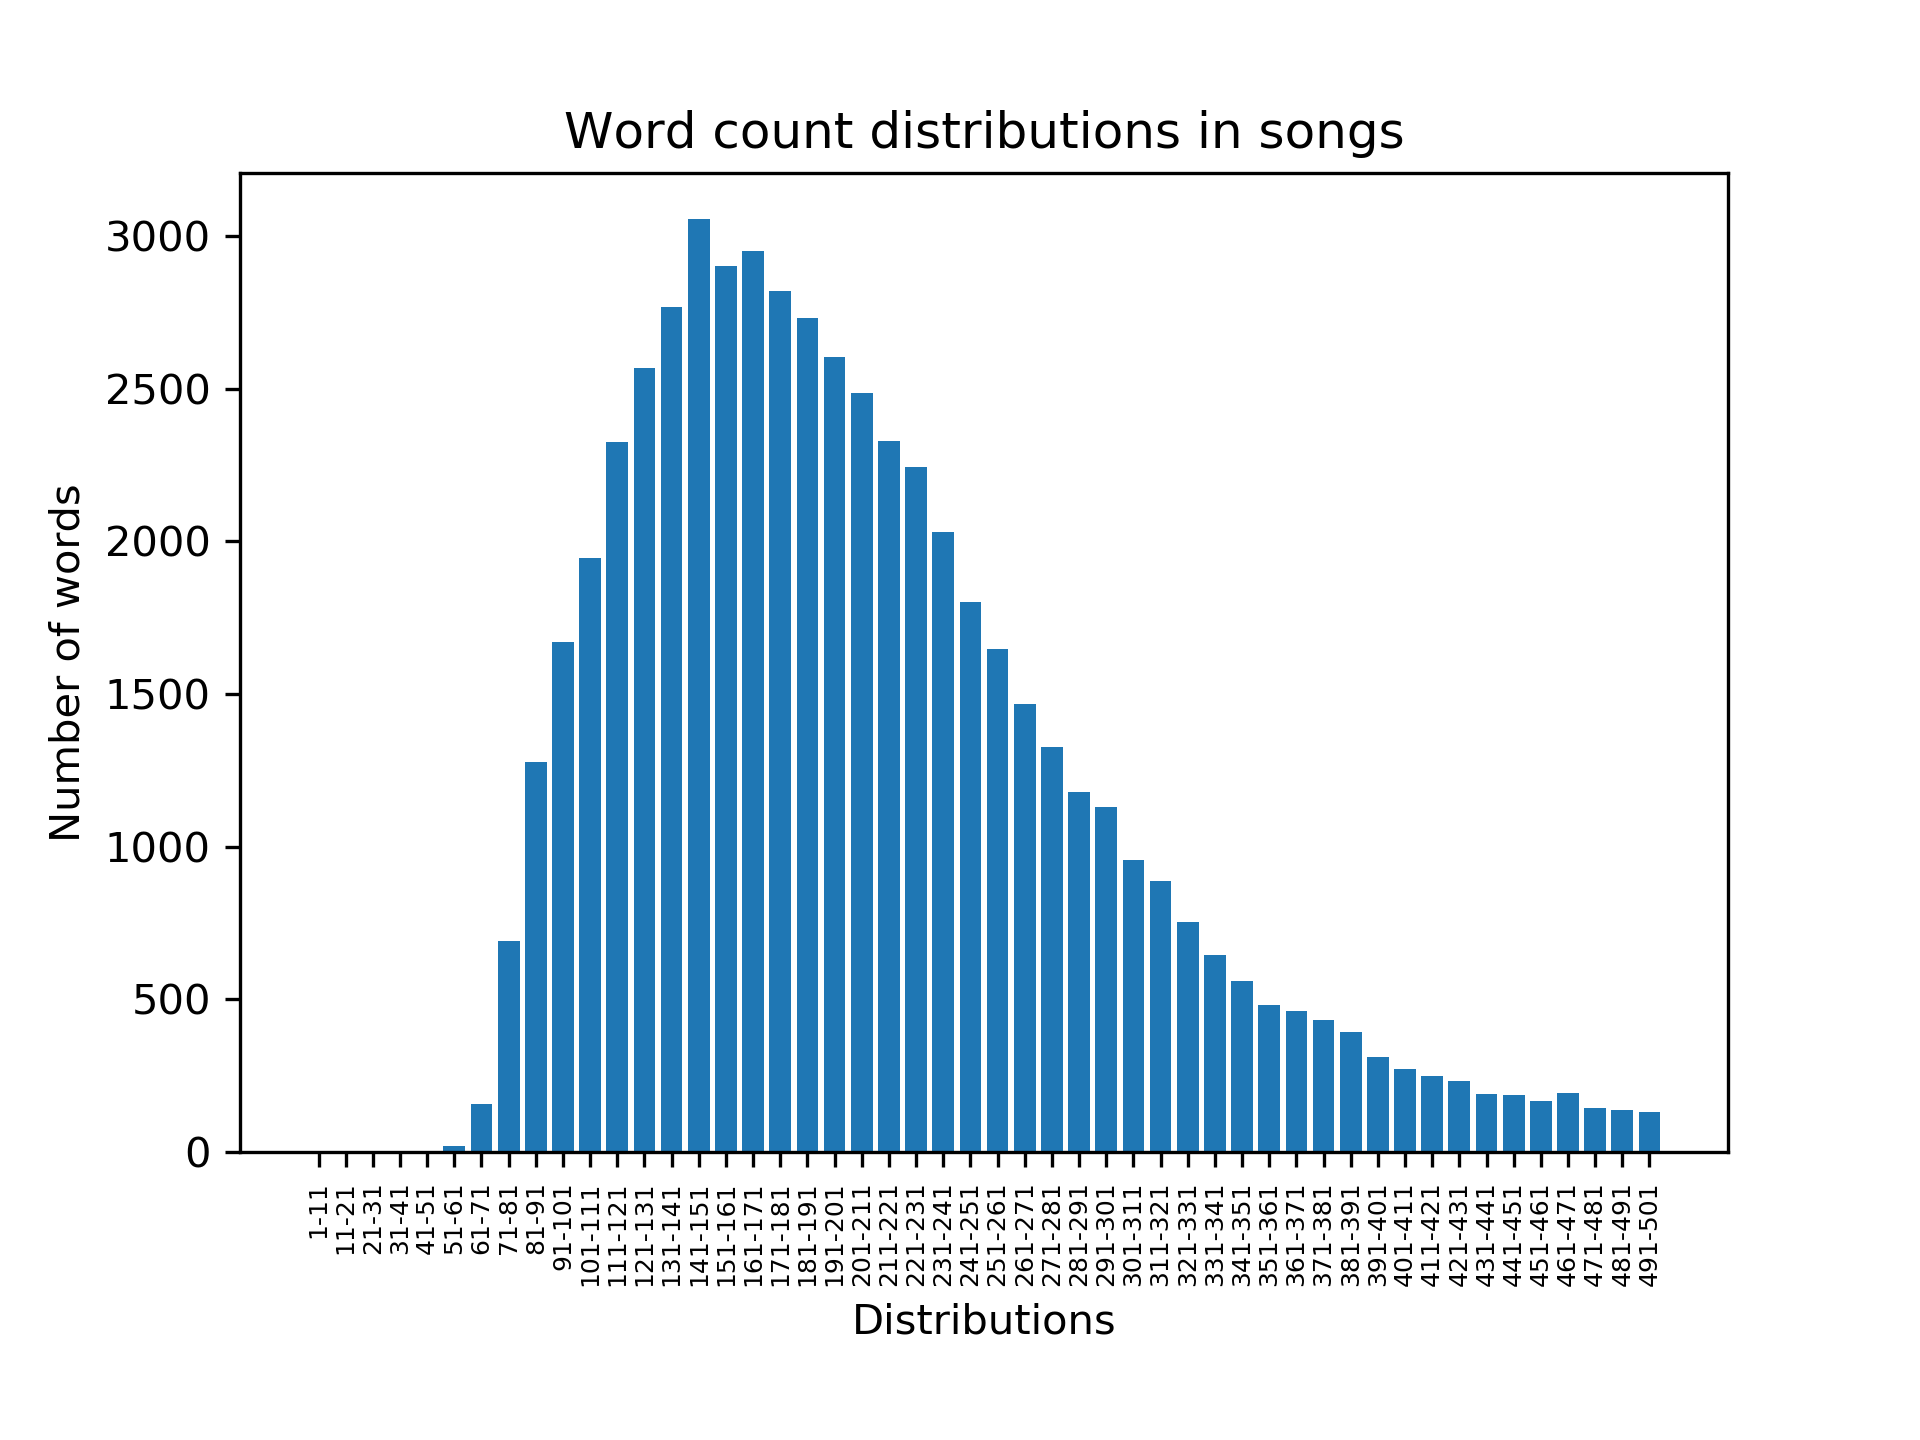
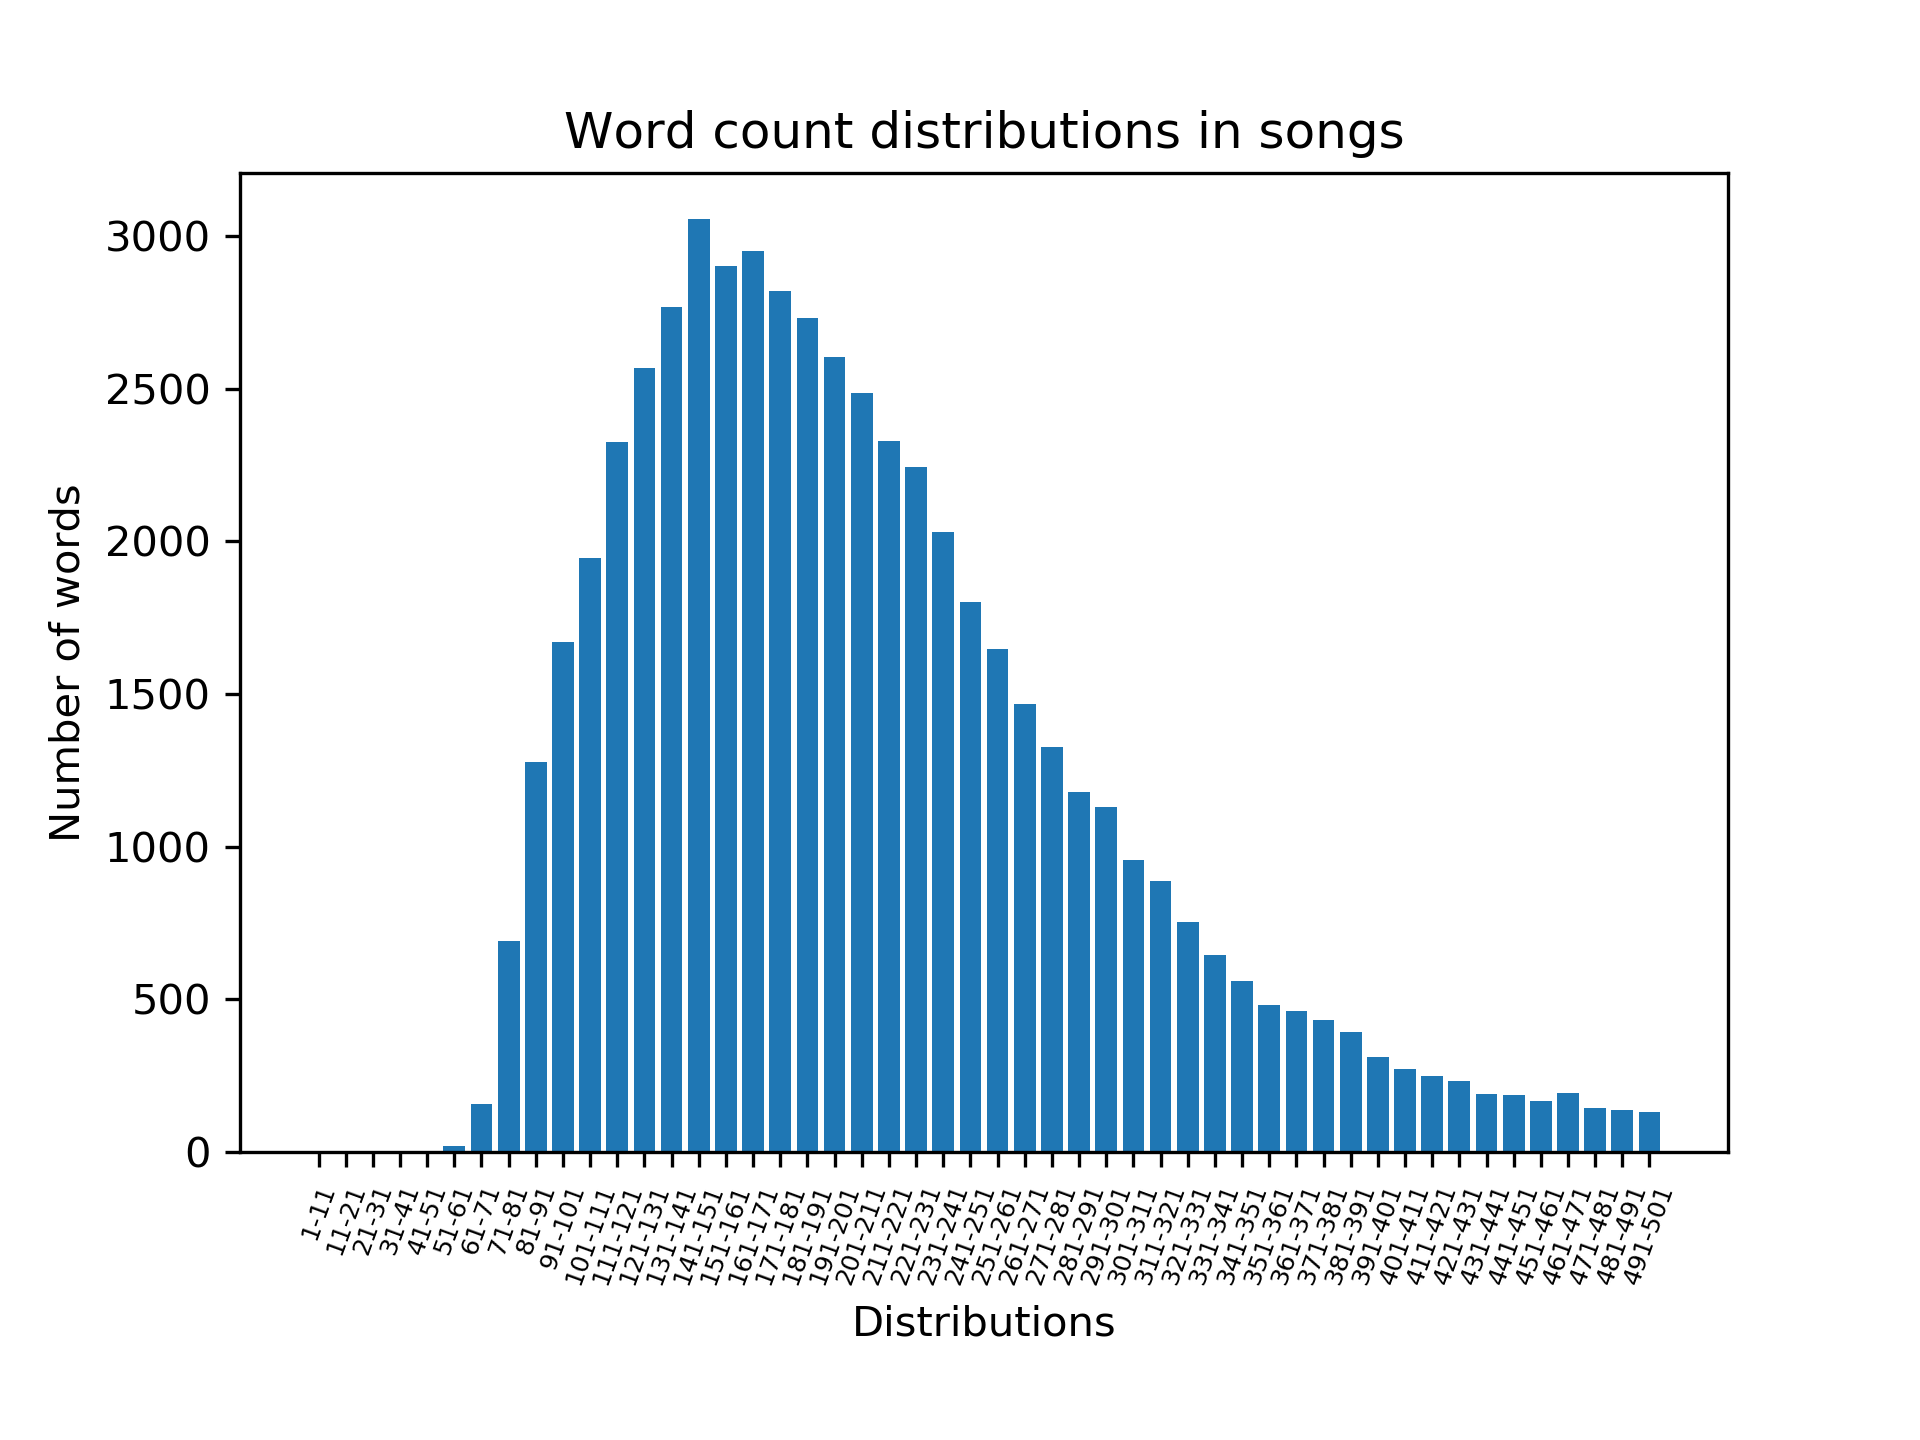
Added new plot for question 5

Changed region(s): [[0.1562, 0.8125, 0.875, 0.9375]]

diff --git a/assignment_5/songs_questions.py b/assignment_5/songs_questions.py
@@ -66,14 +66,14 @@ def question_5():
     labels, word_counts = zip(*words_generator)
     
     plt.bar(range(len(labels)), word_counts)
-    plt.xticks(range(len(labels)), labels, rotation=90)
+    plt.xticks(range(len(labels)), labels, rotation=70)
     plt.tick_params(axis='x', which='major', labelsize=6)
     plt.tick_params(axis='y', labelsize=10)
     plt.title("Word count distributions in songs", fontsize=12)
     plt.ylabel("Number of words")
     plt.xlabel("Distributions")
     plt.subplots_adjust(bottom=0.2)
-    plt.show()
+    plt.savefig("songs_questions_5.png", dpi=300)
 
     #number_of_songs = len(songs)
     #five_to_ten = [np.unique(song) for song in songs_split if len(np.unique(song)) in range(6, 11)]
